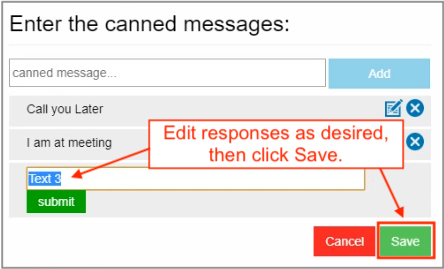
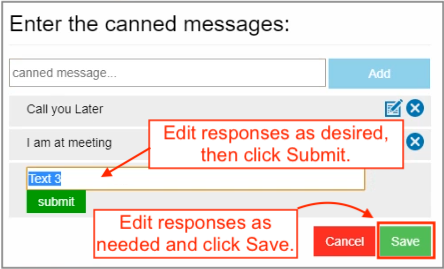
[TUT-35988] EKD 1.4 pre-defined section updates

diff --git a/src/ekd/1-4/guide/usage/index.md b/src/ekd/1-4/guide/usage/index.md
@@ -70,7 +70,7 @@ Before beginning a layout, please make note of the following:
  <br>
  <br>
 2. **Click the [+] icon to create a new layout**:
- <img alt="" style="height:350px" src="ekd_layout_names.png"/>
+ <img alt="" style="height:350px" src="EKD_14_set_default_layout_2.png"/>
  _Click image to enlarge, ESC to exit_.
  <br>
  <br>
@@ -105,6 +105,8 @@ Before beginning a layout, please make note of the following:
  <br>
 8. **Repeat Step 7** until the layout is configured as desired. 
 9. **Click "Save Layout" button** to store the project settings. 
+ <img alt="" style="height:150px" src="EKD_14_set_default_layout.png"/>
+ _Click image to enlarge, ESC to exit_.
 10. **Click "Save Project" to create a project file for deployment**.
 
 -----
@@ -119,7 +121,7 @@ Before beginning a layout, please make note of the following:
  <br>
  <br>
 2. **Click the [+] icon to create a new layout**:
- <img alt="" style="height:350px" src="ekd_layout_names.png"/>
+ <img alt="" style="height:350px" src="EKD_14_set_default_layout_2.png"/>
  _Click image to enlarge, ESC to exit_.
  <br>
  <br>
@@ -342,7 +344,7 @@ Predefined responses can be added to any key and appear in a pop-up list for eas
 5. **To Edit, click the edit button** for the response to be edited:<br>
  <img alt="" style="height:250px" src="edit_predefined_message_2.png"/>
  _Click image to enlarge, ESC to exit_.
-6. **Edit the response** as desired.
+6. **Edit the response** as desired and **click Submit**.
 7. **Repeat Steps 5 and 6** until all predefined responses appear as desired.  
 8. **Click Save to store changes and exit the pop-up**. 
 9. **Click "Save Layout" button** to store the new project settings. 

diff --git a/src/ekd/1-4/guide/about/index.md b/src/ekd/1-4/guide/about/index.md
@@ -46,7 +46,7 @@ _Sample layouts made with Enterprise Keyboard Designer. Click image to enlarge, 
 
 ## What's New in v1.4
 
-* **<u>[Pre-defined Responses]()</u>** allows a list of "canned" text messages to be entered in EKD and displayed in a drop-down on devices running Enterprise Keyboard to simplify, quicken and standardize responses to common questions or situations. **Requires EKB 2.4 or later**. 
+* **<u>[Pre-defined Responses](../usage/#predefinedresponses)</u>** allows a list of "canned" text messages to be entered in EKD and displayed in a drop-down on devices running Enterprise Keyboard to simplify, quicken and standardize responses to common questions or situations. **Requires EKB 2.4 or later**. 
 
 * **<u>[Set Default Layout]()</u>** now allows selection of a custom keyboard layout to be used as the default layout in the device, to appear whenever any input field receives focus. **Requires EKB 3.4 or higher**. 
 
